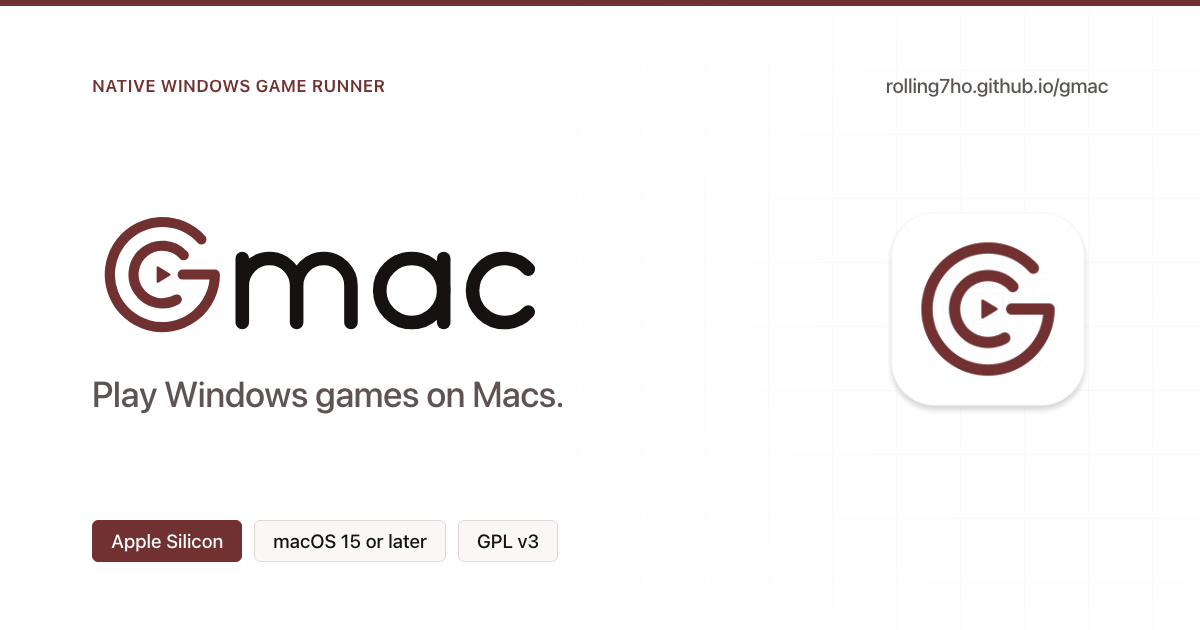
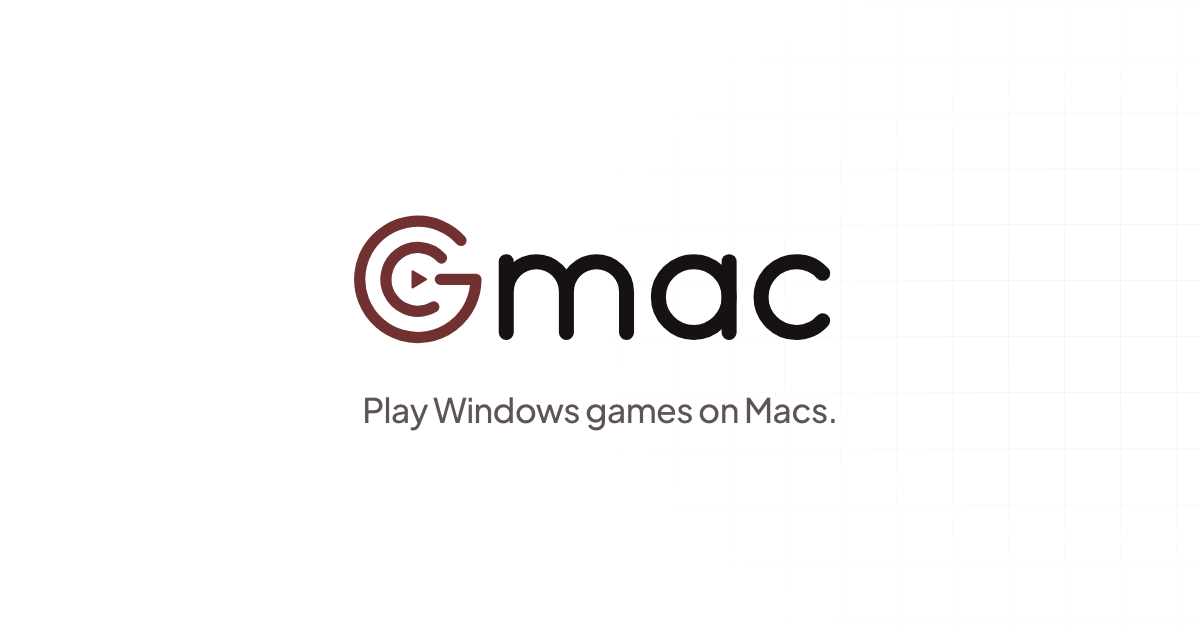
docs: simplify and center OpenGraph card design

diff --git a/dist/pages/_og-card-source.html b/dist/pages/_og-card-source.html
@@ -4,23 +4,28 @@
 <meta charset="utf-8">
 <title>Gmac | Play Windows games on Macs</title>
 <style>
+  @font-face {
+    font-family: "Plus Jakarta Sans";
+    src: url("fonts/plus-jakarta-sans-latin.woff2") format("woff2");
+    font-weight: 400 700;
+    font-style: normal;
+  }
+
   *, *::before, *::after { box-sizing: border-box; margin: 0; padding: 0; }
   html, body {
     width: 1200px; height: 630px;
     background: #FFFFFF;
     color: #161212;
-    font-family: -apple-system, BlinkMacSystemFont, "SF Pro Display", "SF Pro Text", "Helvetica Neue", Helvetica, Arial, sans-serif;
+    font-family: "Plus Jakarta Sans", -apple-system, BlinkMacSystemFont, "SF Pro Display", "SF Pro Text", "Helvetica Neue", Helvetica, Arial, sans-serif;
     -webkit-font-smoothing: antialiased;
     overflow: hidden;
   }
   .card {
     width: 1200px; height: 630px;
-    padding: 68px 92px;
     display: flex;
-    flex-direction: column;
-    justify-content: space-between;
+    align-items: center;
+    justify-content: center;
     background: #FFFFFF;
-    border-top: 6px solid #713131;
     position: relative;
   }
   .bg-grid {
@@ -28,114 +33,53 @@
     inset: 0;
     pointer-events: none;
     background-image:
-      linear-gradient(to right, rgba(113, 49, 49, 0.045) 1px, transparent 1px),
-      linear-gradient(to bottom, rgba(113, 49, 49, 0.045) 1px, transparent 1px);
-    background-size: 64px 64px;
-    -webkit-mask-image: radial-gradient(circle at 88% 48%, rgba(0,0,0,0.9) 0%, rgba(0,0,0,0) 62%);
-    mask-image: radial-gradient(circle at 88% 48%, rgba(0,0,0,0.9) 0%, rgba(0,0,0,0) 62%);
+      linear-gradient(to right, rgba(113, 49, 49, 0.055) 1px, transparent 1px),
+      linear-gradient(to bottom, rgba(113, 49, 49, 0.055) 1px, transparent 1px);
+    background-size: 56px 56px;
+    -webkit-mask-image: radial-gradient(ellipse 56% 78% at 92% 50%, rgba(0, 0, 0, 0.95) 0%, rgba(0, 0, 0, 0.45) 45%, rgba(0, 0, 0, 0) 82%);
+    mask-image: radial-gradient(ellipse 56% 78% at 92% 50%, rgba(0, 0, 0, 0.95) 0%, rgba(0, 0, 0, 0.45) 45%, rgba(0, 0, 0, 0) 82%);
   }
-  .top-row {
-    display: flex;
-    align-items: center;
-    justify-content: space-between;
+  .center-stack {
     position: relative;
     z-index: 1;
-  }
-  .badge {
-    font-size: 17px;
-    font-weight: 600;
-    letter-spacing: 0.04em;
-    text-transform: uppercase;
-    color: #713131;
-  }
-  .site-label {
-    font-size: 20px;
-    font-weight: 500;
-    color: #5E5454;
-    letter-spacing: -0.01em;
-  }
-  .main-row {
     display: flex;
+    flex-direction: column;
     align-items: center;
-    justify-content: space-between;
-    gap: 56px;
-    position: relative;
-    z-index: 1;
-  }
-  .body {
-    max-width: 720px;
+    text-align: center;
   }
   .wordmark-svg {
-    width: 470px;
+    width: 520px;
     height: auto;
     display: block;
-    margin-bottom: 24px;
+    margin-bottom: 28px;
   }
   .tagline {
-    font-size: 36px;
+    font-size: 34px;
     font-weight: 500;
     color: #5E5454;
-    letter-spacing: -0.015em;
-    line-height: 1.24;
-  }
-  .icon-tile {
-    width: 240px;
-    height: 240px;
-    flex-shrink: 0;
-  }
-  .chips {
-    display: flex;
-    gap: 12px;
-    position: relative;
-    z-index: 1;
-  }
-  .chip {
-    font-size: 19px;
-    font-weight: 500;
-    padding: 9px 18px;
-    border-radius: 6px;
-    border: 1px solid #E2D8D8;
-    color: #161212;
-    background: #FAF7F7;
-    white-space: nowrap;
-  }
-  .chip.accent {
-    border-color: #713131;
-    background: #713131;
-    color: #FFFFFF;
+    letter-spacing: -0.02em;
+    line-height: 1.25;
   }
 </style>
 </head>
 <body>
   <div class="card">
     <div class="bg-grid"></div>
-    <div class="top-row">
-      <div class="badge">Native Windows Game Runner</div>
-      <div class="site-label">rolling7ho.github.io/gmac</div>
-    </div>
-    <div class="main-row">
-      <div class="body">
-        <svg class="wordmark-svg" viewBox="0 0 294 92" fill="none" xmlns="http://www.w3.org/2000/svg">
-          <g transform="translate(-9 -7) scale(0.265)">
-            <path d="M 189 183 L 217 200 L 189 217 Z" fill="#713131" stroke="#713131" stroke-width="5" stroke-linejoin="round"/>
-            <path d="M 292.1 117.0 A 124 124 0 1 0 324 200 L 248 200" stroke="#713131" stroke-width="24" stroke-linecap="round" stroke-linejoin="round"/>
-            <path d="M 250.5 154.5 A 68 68 0 1 0 234.0 258.9" stroke="#713131" stroke-width="24" stroke-linecap="round" stroke-linejoin="round"/>
-          </g>
-          <g stroke="#161212" stroke-width="8.5" stroke-linecap="round" stroke-linejoin="round">
-            <path d="M 94 36 L 94 76 M 94 53 A 17 17 0 0 1 128 53 L 128 76 M 128 53 A 17 17 0 0 1 162 53 L 162 76"/>
-            <circle cx="200" cy="56" r="20"/>
-            <path d="M 220 36 L 220 76"/>
-            <path d="M 272.9 42.6 A 20 20 0 1 0 272.9 69.4"/>
-          </g>
-        </svg>
-        <div class="tagline">Play Windows games on Macs.</div>
-      </div>
-      <img class="icon-tile" src="../../images/gmac-icon.png" alt="Gmac app icon" />
-    </div>
-    <div class="chips">
-      <span class="chip accent">Apple Silicon</span>
-      <span class="chip">macOS 15 or later</span>
-      <span class="chip">GPL v3</span>
+    <div class="center-stack">
+      <svg class="wordmark-svg" viewBox="0 0 294 92" fill="none" xmlns="http://www.w3.org/2000/svg">
+        <g transform="translate(-9 -7) scale(0.265)">
+          <path d="M 189 183 L 217 200 L 189 217 Z" fill="#713131" stroke="#713131" stroke-width="5" stroke-linejoin="round"/>
+          <path d="M 292.1 117.0 A 124 124 0 1 0 324 200 L 248 200" stroke="#713131" stroke-width="24" stroke-linecap="round" stroke-linejoin="round"/>
+          <path d="M 250.5 154.5 A 68 68 0 1 0 234.0 258.9" stroke="#713131" stroke-width="24" stroke-linecap="round" stroke-linejoin="round"/>
+        </g>
+        <g stroke="#161212" stroke-width="8.5" stroke-linecap="round" stroke-linejoin="round">
+          <path d="M 94 36 L 94 76 M 94 53 A 17 17 0 0 1 128 53 L 128 76 M 128 53 A 17 17 0 0 1 162 53 L 162 76"/>
+          <circle cx="200" cy="56" r="20"/>
+          <path d="M 220 36 L 220 76"/>
+          <path d="M 272.9 42.6 A 20 20 0 1 0 272.9 69.4"/>
+        </g>
+      </svg>
+      <div class="tagline">Play Windows games on Macs.</div>
     </div>
   </div>
 </body>
